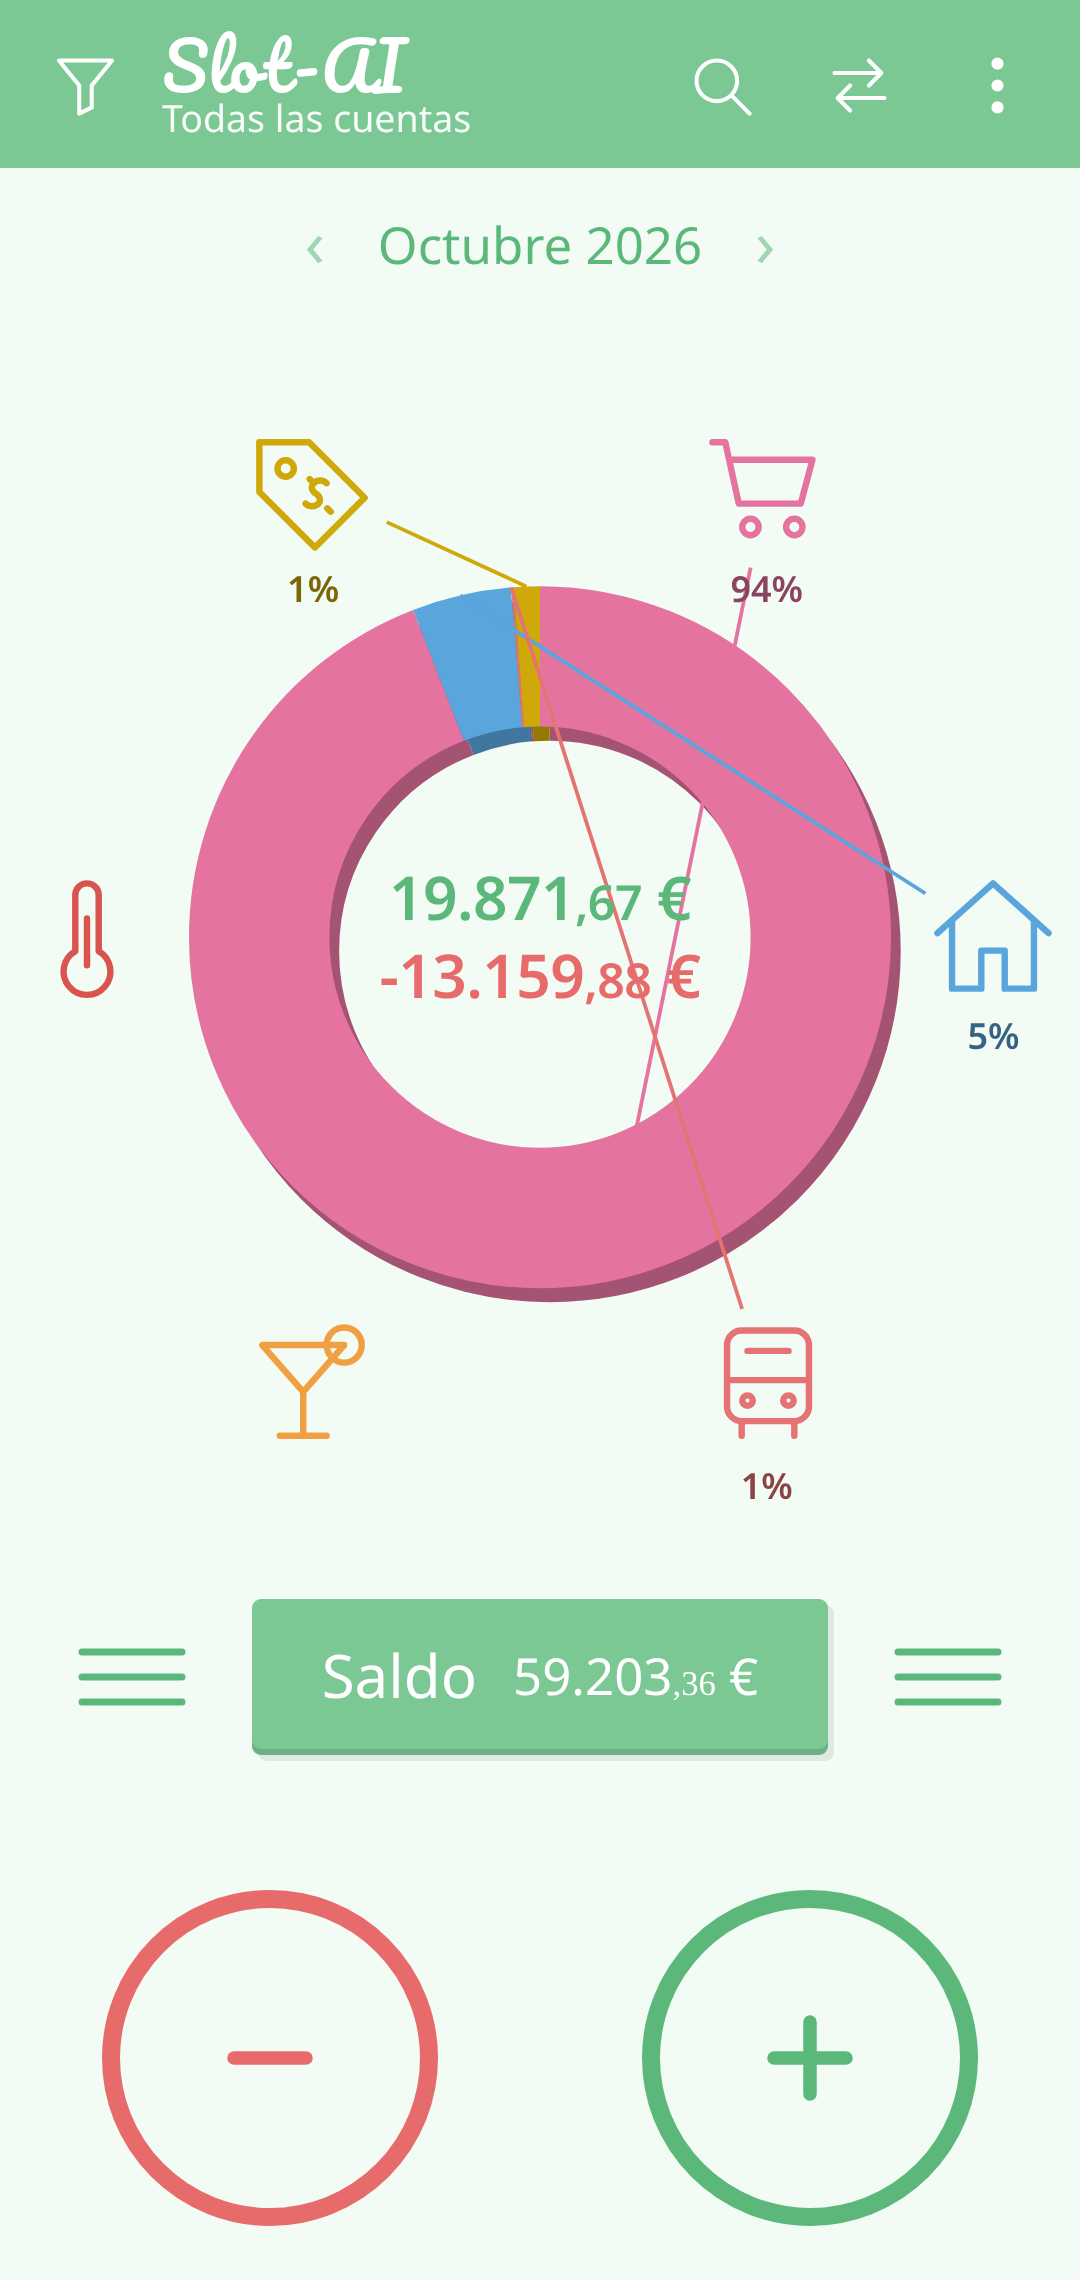
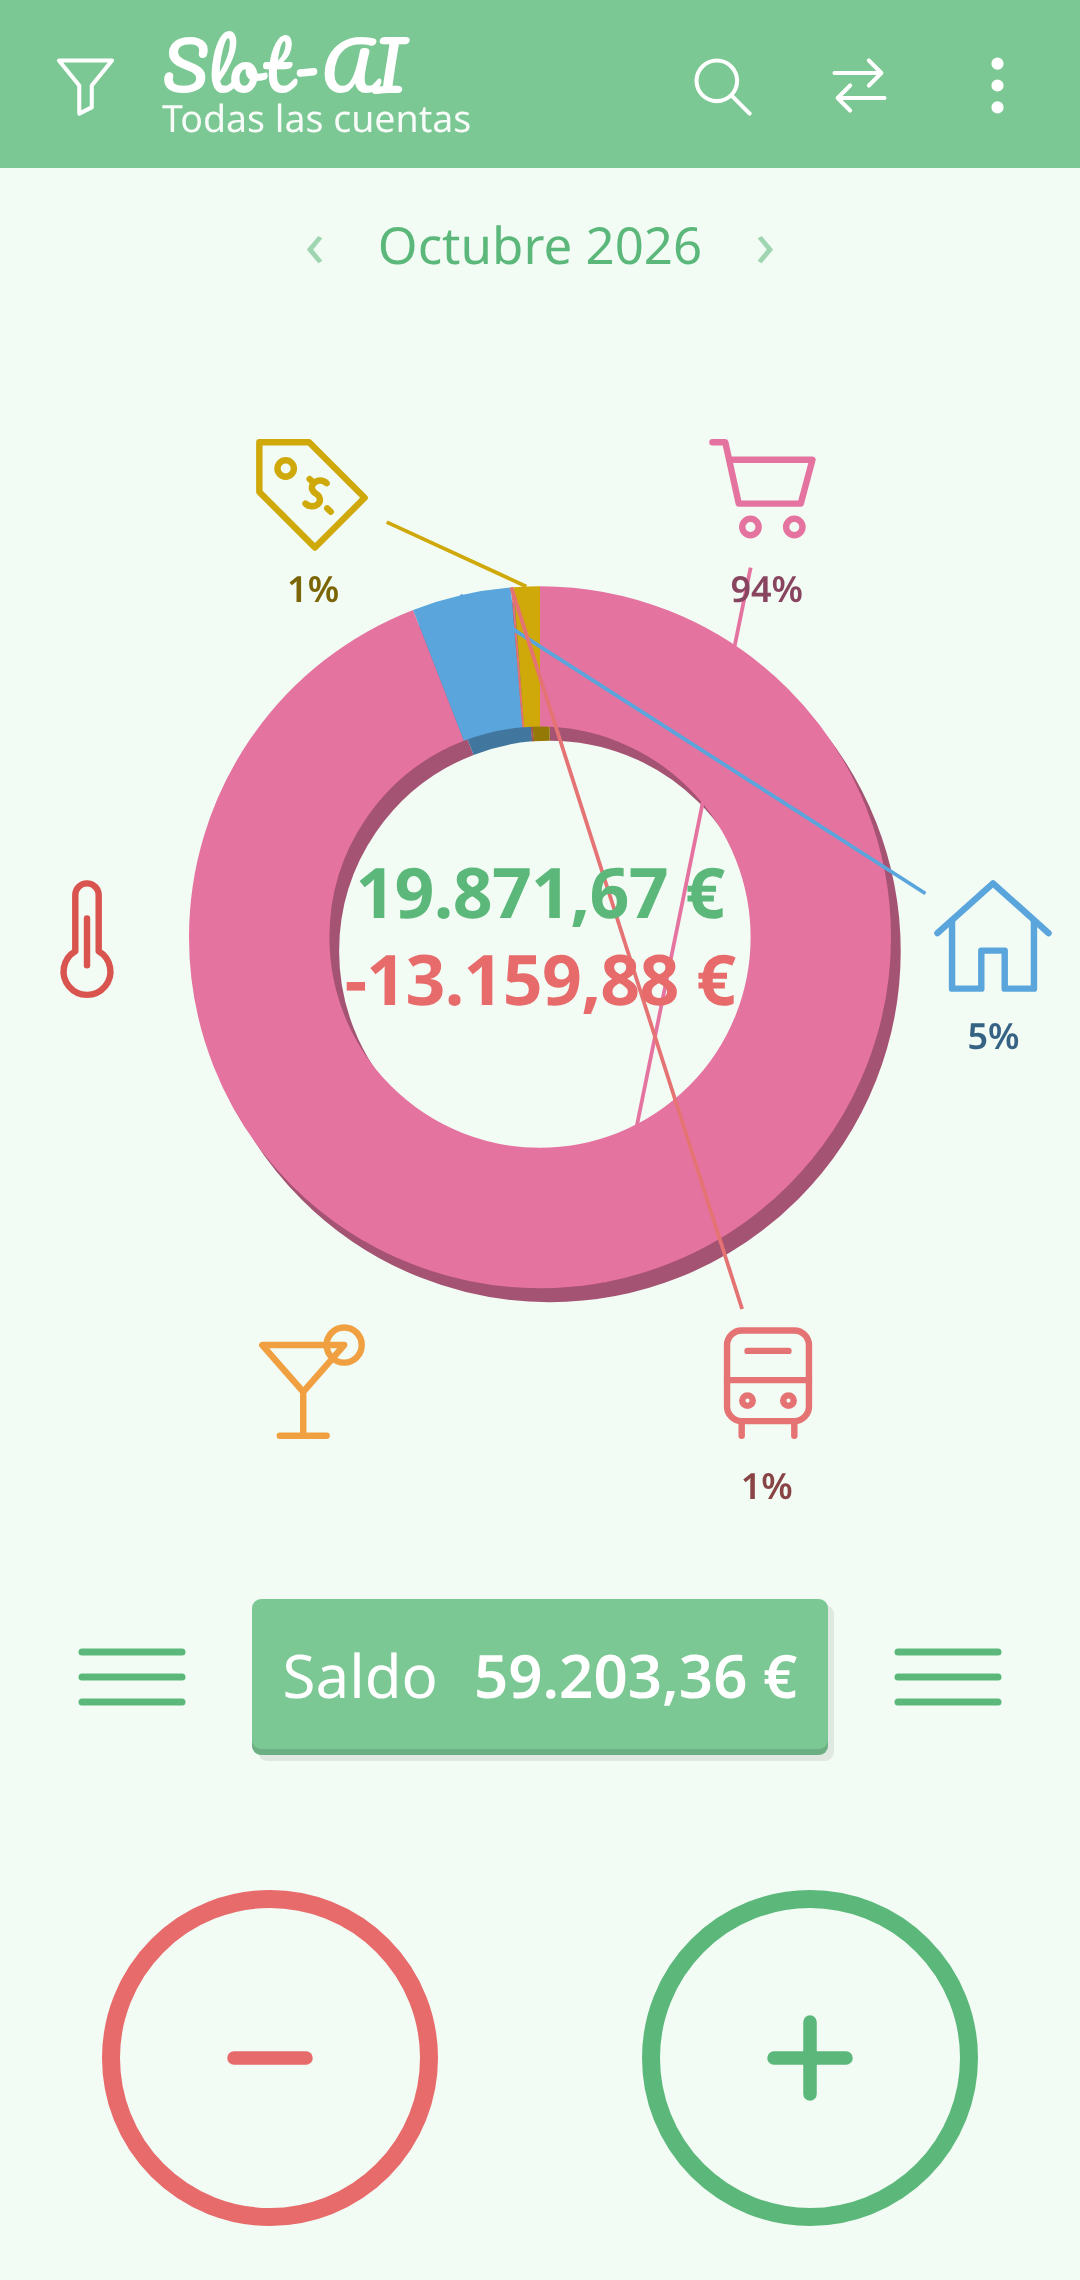
v1.3.3: céntimos al mismo tamaño y línea base (lining/tabular nums), totales del donut 22–26 px en negrita, Saldo 20 px; ajuste automático de ancho

Changed region(s): [[0.3361, 0.3737, 0.6722, 0.4671], [0.275, 0.7162, 0.7333, 0.7474]]

diff --git a/css/app.css b/css/app.css
@@ -7,7 +7,8 @@ button{font:inherit;color:inherit;border:0;background:none;cursor:pointer;paddin
 input,select{font:inherit;color:var(--fg);background:var(--card);border:1px solid var(--line);border-radius:6px;padding:8px}
 svg{display:block}
 #app{max-width:520px;margin:0 auto;min-height:100%;display:flex;flex-direction:column;position:relative}
-small.c{font-size:.68em;font-family:Georgia,serif}
+small.c{font-size:inherit;font-family:inherit;vertical-align:baseline}
+.num,.center,.saldo,.anum,.tx,.grow,.arow{font-variant-numeric:lining-nums tabular-nums;font-feature-settings:"lnum" 1,"tnum" 1}
 .top{background:var(--hdr);color:#fff;padding:calc(env(safe-area-inset-top) + 6px) 6px 6px;display:flex;align-items:center;gap:2px;min-height:56px;position:sticky;top:0;z-index:10}
 .top .ib{width:44px;height:44px;display:flex;align-items:center;justify-content:center;color:#fff}
 .top .ib svg{width:25px;height:25px}
@@ -22,13 +23,13 @@ small.c{font-size:.68em;font-family:Georgia,serif}
 .ci{position:absolute;width:13%;transform:translate(-50%,-50%);display:flex;flex-direction:column;align-items:center}
 .ci svg{width:100%;aspect-ratio:1}
 .ci .pc{font-size:12px;font-weight:600;margin-top:1px;position:absolute;top:100%}
-.center{position:absolute;left:50%;top:50%;width:37%;transform:translate(-50%,-50%);text-align:center;font-weight:600;font-size:clamp(17px,5.6vw,23px);line-height:1.25;white-space:nowrap;font-variant-numeric:tabular-nums;font-feature-settings:"tnum" 1;letter-spacing:-.01em;-webkit-text-size-adjust:100%;text-size-adjust:100%}
-.center>div{overflow:hidden}.center small.c{font-family:inherit;font-size:.8em;font-weight:600}
+.center{position:absolute;left:50%;top:50%;width:37%;transform:translate(-50%,-50%);text-align:center;font-size:clamp(22px,6.6vw,26px);font-weight:700;line-height:1.25;white-space:nowrap;letter-spacing:-.01em;-webkit-text-size-adjust:100%;text-size-adjust:100%}
+.center>div{overflow:hidden}
 .center .inc{color:var(--green)}.center .exp{color:var(--red)}
 .saldorow{display:flex;align-items:center;gap:14px;padding:8px 18px}
 .saldorow .lb{width:52px;height:40px;color:var(--green)}.saldorow .lb svg{width:52px;height:40px}
 .saldo{flex:1;height:52px;background:var(--hdr);color:#fff;border-radius:3px;font-size:20px;box-shadow:inset 0 -2px 0 rgba(0,0,0,.12),2px 2px 0 rgba(0,0,0,.08);display:flex;align-items:center;justify-content:center;gap:12px}
-.saldo b{font-weight:400;font-size:17px}
+.saldo b{font-weight:600;font-size:20px}
 .bigbtns{display:flex;justify-content:space-between;padding:10px 34px calc(env(safe-area-inset-bottom) + 18px);margin-top:auto;position:sticky;bottom:0}
 .circ{width:112px;height:112px;border-radius:50%;border:6px solid;display:flex;align-items:center;justify-content:center;background:var(--bg)}
 .circ svg{width:36px;height:36px}

diff --git a/js/app.js b/js/app.js
@@ -1,5 +1,5 @@
 'use strict';
-const APP_VERSION='1.3.2';
+const APP_VERSION='1.3.3';
 const $=s=>document.querySelector(s);
 const esc=s=>String(s??'').replace(/[&<>"']/g,c=>({'&':'&amp;','<':'&lt;','>':'&gt;','"':'&quot;',"'":'&#39;'}[c]));
 const D=()=>Store.data;
@@ -12,7 +12,7 @@ const U=(k,cls,sw)=>svgIcon(UI[k],cls,sw);
 // ---------- formato ----------
 function fmtNum(cents){const neg=cents<0;cents=Math.abs(Math.round(cents));const e=Math.floor(cents/100).toString().replace(/\B(?=(\d{3})+(?!\d))/g,'.');return (neg?'-':'')+e+','+String(cents%100).padStart(2,'0');}
 const money=c=>fmtNum(c)+'\u00a0'+D().settings.currency;
-function moneyH(c){const s=fmtNum(c),i=s.lastIndexOf(',');return `${s.slice(0,i)}<small class="c">${s.slice(i)}</small>\u00a0${esc(D().settings.currency)}`;}
+function moneyH(c){return `<span class="num">${fmtNum(c)}\u00a0${esc(D().settings.currency)}</span>`;}
 const iso=d=>d.getFullYear()+'-'+String(d.getMonth()+1).padStart(2,'0')+'-'+String(d.getDate()).padStart(2,'0');
 const parseIso=s=>{const[y,m,d]=s.split('-').map(Number);return new Date(y,m-1,d);};
 const fmtDate=s=>{const[y,m,d]=s.split('-');return d+'/'+m+'/'+y;};
@@ -351,8 +351,8 @@ document.addEventListener('change',ev=>{const t=ev.target;
   else if(t.id==='fileImport'&&t.files[0]){const r=new FileReader();r.onload=()=>{const txt=r.result;t.value='';ask({title:'Restaurar copia',msg:'Esto sustituirá todos los datos actuales. ¿Continuar?',ok:'Restaurar'}).then(d=>{if(!d)return;try{Store.importData(txt);st.account='all';render();toast('Copia restaurada');}catch(e){toast('Error: '+e.message);}});};r.readAsText(t.files[0]);}
 });
 function fitCenter(){const c=$('#chart .center');if(!c)return;c.style.fontSize='';let f=parseFloat(getComputedStyle(c).fontSize);
-  while(f>11&&[...c.children].some(d=>d.scrollWidth>c.clientWidth)){f-=.5;c.style.fontSize=f+'px';}}
-window.addEventListener('resize',()=>fitCenter());
+  while(f>11&&[...c.querySelectorAll('.num')].some(d=>d.getBoundingClientRect().width>c.clientWidth)){f-=.5;c.style.fontSize=f+'px';}}
+window.addEventListener('resize',()=>fitCenter());if(document.fonts)document.fonts.ready.then(()=>fitCenter());
 function bindSwipe(){fitCenter();const el=$('#chart');if(!el)return;let x0=null,y0=null;
   el.addEventListener('touchstart',e=>{x0=e.touches[0].clientX;y0=e.touches[0].clientY;},{passive:true});
   el.addEventListener('touchend',e=>{if(x0===null)return;const dx=e.changedTouches[0].clientX-x0,dy=e.changedTouches[0].clientY-y0;x0=null;if(Math.abs(dx)>50&&Math.abs(dx)>Math.abs(dy))shift(dx<0?1:-1);});}

diff --git a/tests/e2e.js b/tests/e2e.js
@@ -166,7 +166,7 @@ process.on('exit',()=>console.log(results.join('\n')));
    await sc.close();};
   await shoot(false);await shoot(true);
  }
- await p.goto(URL);await p.waitForSelector('.ci');for(const w of [360,412]){await p.setViewportSize({width:w,height:760});await p.waitForTimeout(100);const m=await p.$eval('#chart .center',c=>{const s=getComputedStyle(c);return{fs:parseFloat(s.fontSize),tn:s.fontVariantNumeric,fit:[...c.children].every(d=>d.scrollWidth<=c.clientWidth),tf:s.transform}});ok('totales donut legibles a '+w+'px ('+m.fs+'px, tnum, sin escalar)',m.fs>=16&&m.tn.includes('tabular')&&m.fit&&/^matrix\(1, 0, 0, 1,/.test(m.tf));}
+ await p.goto(URL);await p.waitForSelector('.ci');for(const w of [360,412]){await p.setViewportSize({width:w,height:760});await p.waitForTimeout(100);const m=await p.$eval('#chart .center',c=>{const s=getComputedStyle(c);return{fs:parseFloat(s.fontSize),tn:s.fontVariantNumeric,fit:[...c.querySelectorAll('.num')].every(d=>d.getBoundingClientRect().width<=c.clientWidth),tf:s.transform}});ok('totales donut legibles a '+w+'px ('+m.fs+'px, tnum, sin escalar)',m.fs>=21&&m.tn.includes('tabular')&&m.tn.includes('lining')&&m.fit&&/^matrix\(1, 0, 0, 1,/.test(m.tf));}
  ok('sin errores de consola '+JSON.stringify(errs),errs.length===0);
  console.log(results.join('\n'));console.log(results.filter(r=>r.startsWith('PASS')).length+'/'+results.length+' OK');await b.close();
 })().catch(e=>{console.error(e);process.exit(1)});

diff --git a/sw.js b/sw.js
@@ -1,5 +1,5 @@
 // Cambia VERSION en cada despliegue para que los usuarios reciban la actualización.
-const VERSION='slot-ai-v1.3.2';
+const VERSION='slot-ai-v1.3.3';
 const ASSETS=['./','index.html','css/app.css','js/icons.js','js/store.js','js/app.js','fonts/pacifico.woff2','manifest.webmanifest','icons/icon-192.png','icons/icon-512.png','icons/icon-512-maskable.png'];
 self.addEventListener('install',e=>e.waitUntil(caches.open(VERSION).then(c=>c.addAll(ASSETS))));
 self.addEventListener('activate',e=>e.waitUntil(caches.keys().then(ks=>Promise.all(ks.filter(k=>k!==VERSION).map(k=>caches.delete(k)))).then(()=>self.clients.claim())));
